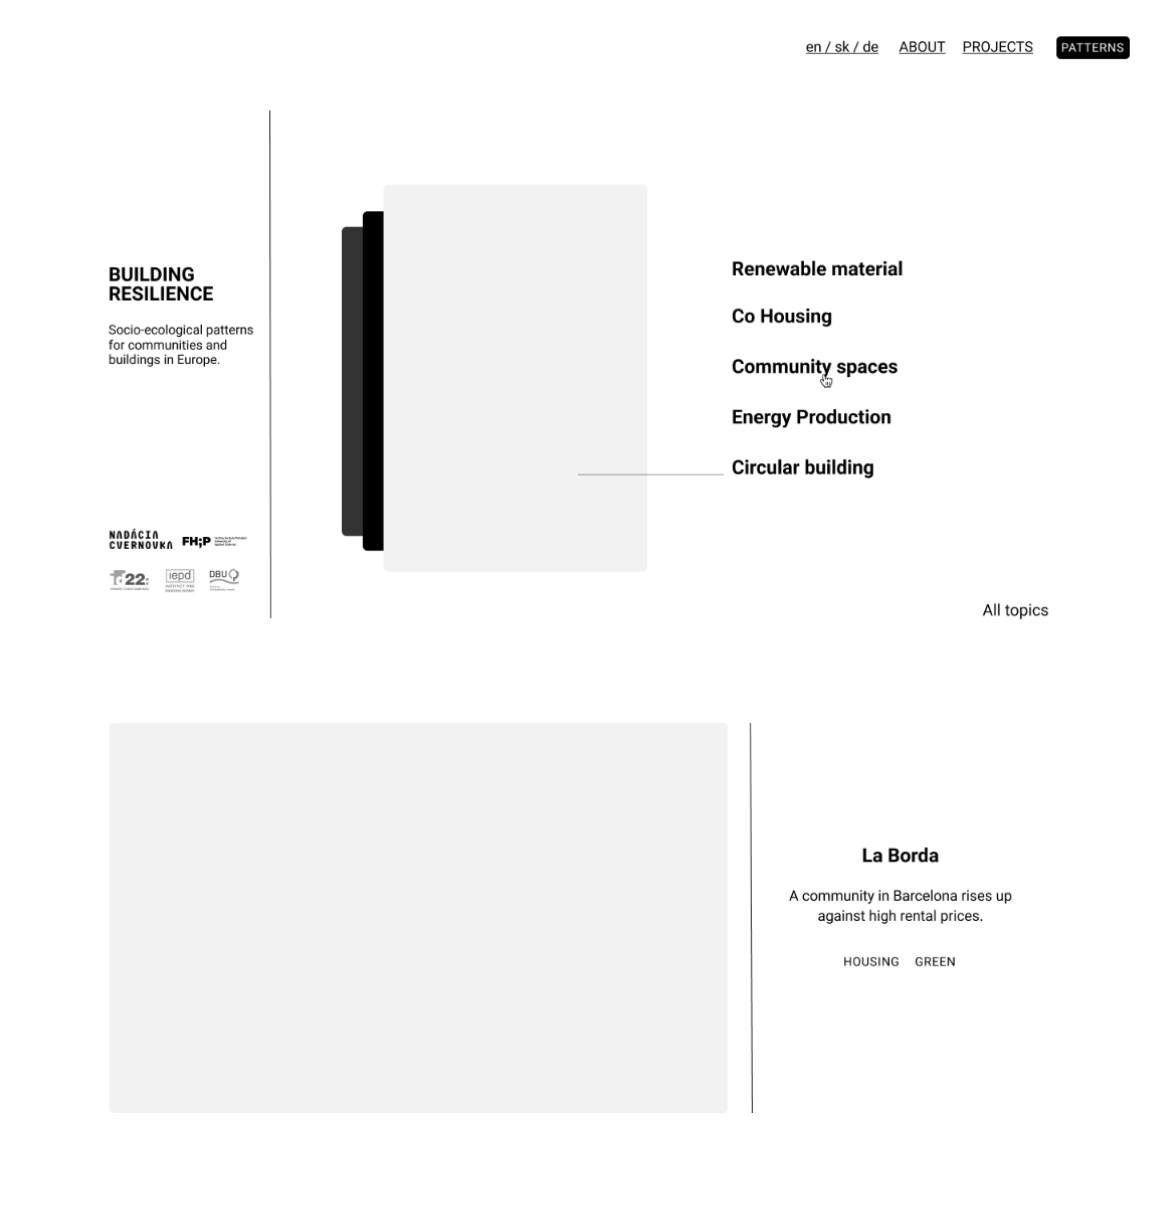
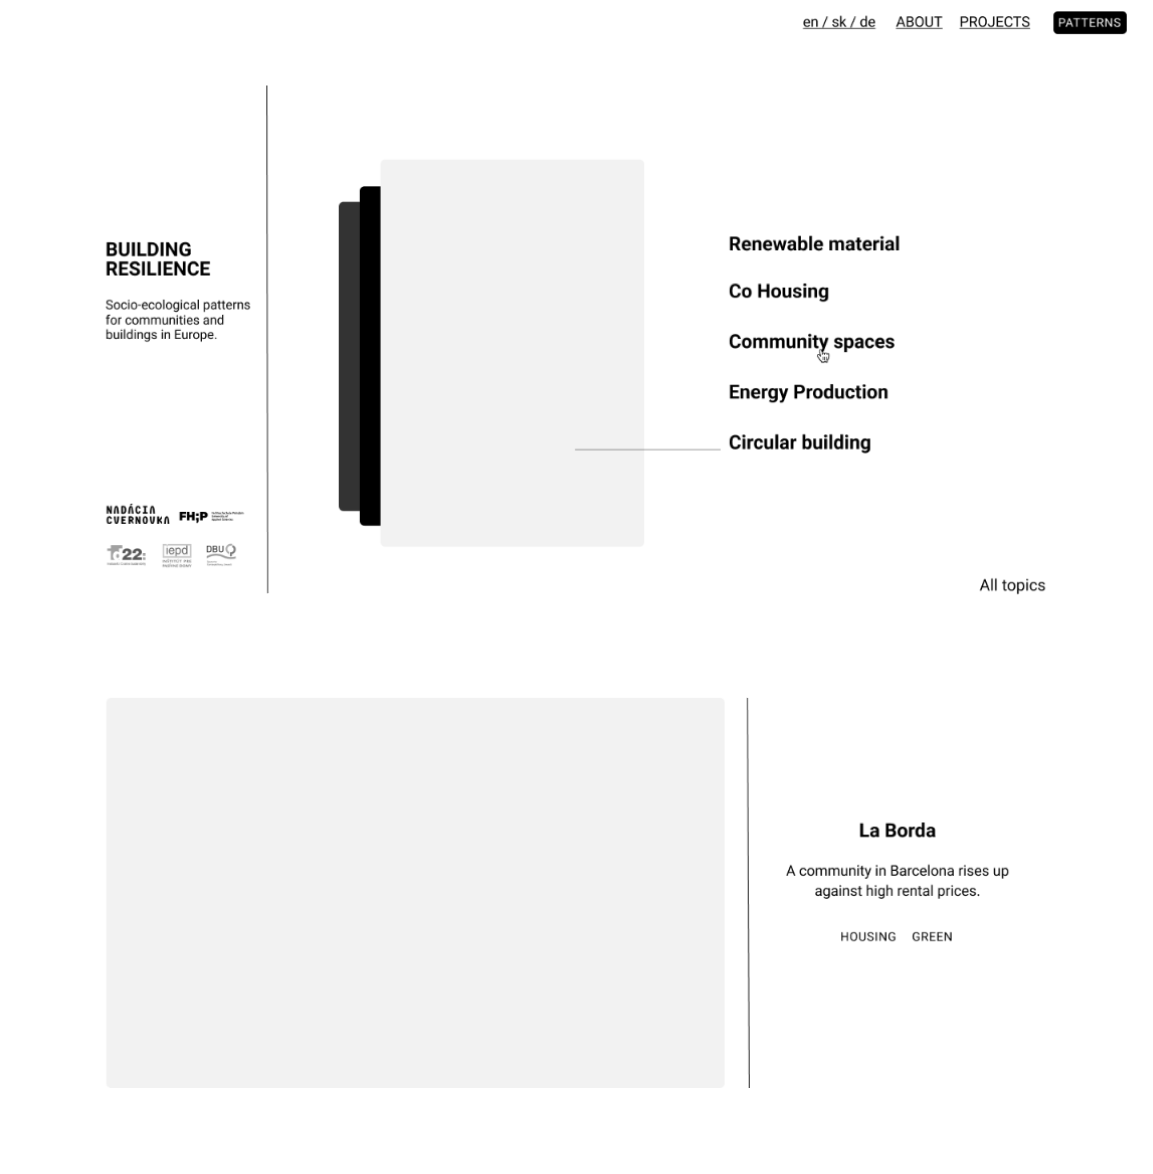
Finetune building social ecology page

diff --git a/pages/projects/building-social-ecology.js b/pages/projects/building-social-ecology.js
@@ -18,35 +18,35 @@ export async function getStaticProps() {
 
 export default function BuildingSocialEcology() {
   return (
-    <Layout variant="light">
+    <Layout>
       <TextColumn>
         <Header />
         <h1 className="text-4xl mb-8">
           An archive of socio-ecological design patterns for sustainable
           construction
         </h1>
-        <p className="mb-4 text-gray-700">
+        <p className="mb-4 text-gray-900">
           Building Social Ecology showcases sustainable design patterns for
           architects, residents and city developers in Europe.
         </p>
-        <p className="mb-4 text-gray-700">
+        <p className="mb-4 text-gray-900">
           In this DBU-funded (Deutsche Bundesstiftung Umwelt) research project I
           helped a team from the University of Applied Sciences in Potsdam and a
           cultural center in Bratislava with designing the projects website. We
           worked together on on a new platform where they can publish and
           archive research more easily.
         </p>
-        <p className="mb-4 text-gray-700">
+        <p className="mb-4 text-gray-900">
           My process included conducting workshops with the project partners,
           collecting visual inspiration in a moodboard, building wireframes and
           designing the interface of the application in Figma.
         </p>
-        <p className="mb-4 text-gray-700">
+        <p className="mb-4 text-gray-900">
           For the implementation I developed a custom theme in WordPress.
         </p>
         <Link
           href="https://www.buildingsocialecology.org/"
-          className="text-gray-700"
+          className="text-gray-900"
           variant="underline-dark"
         >
           www.buildingsocialecology.org <span>↗</span>
@@ -59,7 +59,7 @@ export default function BuildingSocialEcology() {
           <div className="basis-full md:flex-1">
             <Image
               src={bsePic1}
-              className="drop-shadow-xl"
+              className="drop-shadow-sm border border-gray-300 rounded-lg"
               alt="Detail view of buildingsocialecology.org"
             />
           </div>
@@ -70,13 +70,25 @@ export default function BuildingSocialEcology() {
         {/* Another flex row */}
         <div className="mt-16 md:flex md:flex-wrap md:flex-row md:gap-16">
           <div className="basis-full md:flex-1">
-            <Image src={bsePic3} className="drop-shadow-xl" alt="Moodboard" />
+            <Image
+              src={bsePic3}
+              className="drop-shadow-sm border border-gray-300 rounded-lg"
+              alt="Moodboard"
+            />
           </div>
           <div className="basis-full md:flex-1">
-            <Image src={bsePic4} className="drop-shadow-xl" alt="Moodboard" />
+            <Image
+              src={bsePic4}
+              className="drop-shadow-sm border border-gray-300 rounded-lg"
+              alt="Moodboard"
+            />
           </div>
           <div className="basis-full md:flex-1">
-            <Image src={bsePic5} className="drop-shadow-xl" alt="Moodboard" />
+            <Image
+              src={bsePic5}
+              className="drop-shadow-sm border border-gray-300 rounded-lg"
+              alt="Moodboard"
+            />
           </div>
         </div>
       </div>

diff --git a/components/footer.js b/components/footer.js
@@ -8,7 +8,8 @@ const Footer = ({ variant }) => {
       legalLinkClasses = 'font-semibold text-purple-700 hover:text-purple-500'
       break
     case 'project':
-      legalLinkClasses = 'text-xs text-gray-700 hover:text-gray-500'
+      legalLinkClasses =
+        'text-xs font-semibold text-gray-700 hover:text-gray-500'
       showBackLink = true
       break
   }
